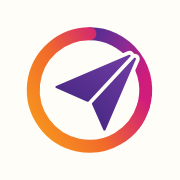
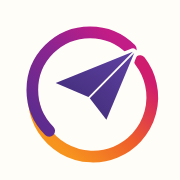
Fix heading legibility, and redraw the mark to match the artwork
Two things the owner caught on the deployed site.

**Headings.** A blanket `h1, h2, h3, h4` rule put Bangers on every heading.
Bangers is a condensed comic poster face — it earns its place at 2rem+ and its
letterforms run together below that, so the 16px homepage card titles rendered
as an unreadable clump. The rule now splits by size rather than by level: h1/h2
keep Bangers for hero and section headlines, h3/h4 get Baloo 2, which stays
rounded and cartoon-adjacent while being legible at 16px. Picked by rendering
the actual cards against Bangers-with-tracking, Nunito, Fredoka, Baloo 2 and
Chewy rather than by guessing. The handful of small headings that asked for
`.font-display` explicitly moved across too.

**The mark.** The plane was wrong: two disconnected triangles rather than one
dart. It is now a single dart whose wing and body share the tip and the notch,
with the body nudged just off that shared edge so the fold reads as a hairline,
as the artwork does. The ring was a plain circle; it is now the spiral it should
be — two arcs overlapping about 35° at the lower left, inner drawn over outer,
which is what gives the wrapped-ribbon tail — and the plane flies out through
the gap the arcs leave at 1–2 o'clock. Colours moved to the artwork's, and the
wordmark takes its slate navy rather than the page's near-black.

The favicon's backing disc is sized so it tucks under the ring without poking
past it — checked at 16/24/32/64px against both light and dark browser chrome,
[…]

Changed region(s): [[0.1389, 0.1389, 0.8889, 0.9167]]

diff --git a/src/components/brand/logo.tsx b/src/components/brand/logo.tsx
@@ -15,14 +15,25 @@ import { cn } from "@/lib/utils";
  */
 
 const BRAND = {
-  violet: "#4C2A86",
-  violetLight: "#6B3AA0",
-  purple: "#5B2D91",
-  magenta: "#8E2A93",
-  pink: "#D01C7B",
-  orange: "#F26B2A",
+  violet: "#46307F",
+  violetLight: "#5C3F9E",
+  purple: "#5E2C8F",
+  magenta: "#8D2490",
+  pink: "#C21C86",
+  crimson: "#D01C6E",
+  orange: "#EE5C2B",
   amber: "#F7941E",
 } as const;
+
+/**
+ * The plane, as one dart rather than two loose triangles.
+ *
+ * `WING` and `BODY` share the tip and the notch; BODY is nudged ~2.4 units
+ * perpendicular to that shared edge so the fold reads as a hairline of the page
+ * showing through, which is what the original artwork does.
+ */
+const PLANE_WING = "M155 51 L56 91 L98 109 Z";
+const PLANE_BODY = "M156.7 52.7 L99.7 110.7 L121 138 Z";
 
 /**
  * The circular mark on its own — favicon, avatar, tight spaces.
@@ -44,17 +55,17 @@ export function LogoMark({
       {...(title ? { role: "img" as const, "aria-label": title } : { "aria-hidden": true })}
     >
       <defs>
-        {/* Top of the ring: violet → magenta → pink, sweeping clockwise. */}
-        <linearGradient id="idmRingTop" x1="10%" y1="6%" x2="94%" y2="66%">
-          <stop offset="0%" stopColor={BRAND.purple} />
-          <stop offset="48%" stopColor={BRAND.magenta} />
-          <stop offset="100%" stopColor={BRAND.pink} />
-        </linearGradient>
-        {/* Bottom of the ring: pink → orange → amber, continuing the sweep. */}
-        <linearGradient id="idmRingBottom" x1="94%" y1="44%" x2="10%" y2="96%">
-          <stop offset="0%" stopColor={BRAND.pink} />
-          <stop offset="55%" stopColor={BRAND.orange} />
+        {/* Under-layer: crimson at 2 o'clock, sweeping clockwise to orange at 8. */}
+        <linearGradient id="idmRingOuter" x1="92%" y1="14%" x2="14%" y2="82%">
+          <stop offset="0%" stopColor={BRAND.crimson} />
+          <stop offset="50%" stopColor={BRAND.orange} />
           <stop offset="100%" stopColor={BRAND.amber} />
+        </linearGradient>
+        {/* Over-layer: purple at 7:30, up the left and over the top to magenta. */}
+        <linearGradient id="idmRingInner" x1="8%" y1="90%" x2="86%" y2="10%">
+          <stop offset="0%" stopColor={BRAND.purple} />
+          <stop offset="55%" stopColor={BRAND.magenta} />
+          <stop offset="100%" stopColor={BRAND.pink} />
         </linearGradient>
         {/* Themed — see `--brand-plane-*` in globals.css. */}
         <linearGradient id="idmPlane" x1="16%" y1="92%" x2="88%" y2="12%">
@@ -62,30 +73,35 @@ export function LogoMark({
           <stop offset="100%" stopColor={`var(--brand-plane-to, ${BRAND.violetLight})`} />
         </linearGradient>
         {/*
-          The original artwork separates the plane from the ring with a sliver of
-          the page behind it. Punching that sliver out with a mask — rather than
-          painting it in a background colour — means the mark is correct on every
-          surface it lands on: nav, cream footer, dark theme, a user's own
+          The artwork separates the plane from the ring with a sliver of the page
+          behind it. Punching that sliver out with a mask — rather than painting
+          it in a background colour — means the mark is correct on every surface
+          it lands on: nav, cream footer, dark theme, a customer's own
           link-in-bio colour.
         */}
         <mask id="idmPlaneCut">
           <rect x="0" y="0" width="200" height="200" fill="#fff" />
-          <g fill="#000" stroke="#000" strokeWidth="14" strokeLinejoin="round">
-            <path d="M152 55 L56 96 L97 114 Z" />
-            <path d="M159 59 L104 118 L119 152 Z" />
+          <g fill="#000" stroke="#000" strokeWidth="9" strokeLinejoin="round">
+            <path d={PLANE_WING} />
+            <path d={PLANE_BODY} />
           </g>
         </mask>
       </defs>
 
-      {/* Ring, drawn as two arcs so the gradient can travel around it. */}
-      <g fill="none" strokeWidth="17" strokeLinecap="round" mask="url(#idmPlaneCut)">
-        <path d="M100 26 A74 74 0 0 1 170 122" stroke="url(#idmRingTop)" />
-        <path d="M170 122 A74 74 0 1 1 100 26" stroke="url(#idmRingBottom)" />
+      {/*
+        The ring is a spiral, not a circle: two arcs that overlap by about 35°
+        at the lower left, the inner one drawn over the outer, which is what
+        gives the mark its wrapped-ribbon tail. They stop short of each other at
+        1–2 o'clock, and the plane flies out through that gap.
+      */}
+      <g fill="none" strokeWidth="15" strokeLinecap="round" mask="url(#idmPlaneCut)">
+        <path d="M164.1 63 A76 76 0 1 1 28.5 119.2" stroke="url(#idmRingOuter)" />
+        <path d="M47.7 152.3 A71 71 0 0 1 152.3 47.7" stroke="url(#idmRingInner)" />
       </g>
 
-      <g fill="url(#idmPlane)" stroke="url(#idmPlane)" strokeWidth="3" strokeLinejoin="round">
-        <path d="M152 55 L56 96 L97 114 Z" />
-        <path d="M159 59 L104 118 L119 152 Z" />
+      <g fill="url(#idmPlane)">
+        <path d={PLANE_WING} />
+        <path d={PLANE_BODY} />
       </g>
     </svg>
   );
@@ -99,15 +115,15 @@ export function LogoWordmark({ className }: { className?: string }) {
   return (
     <span
       className={cn(
-        "font-sans text-[19px] font-extrabold lowercase leading-none tracking-[-0.02em]",
+        "font-sans text-[19px] font-extrabold lowercase leading-none tracking-[-0.015em]",
         className,
       )}
     >
-      <span className="text-[var(--text)]">insta</span>
+      <span className="text-[var(--brand-word,var(--text))]">insta</span>
       <span className="bg-[linear-gradient(95deg,#B8228C_0%,#D91E6E_45%,#F7941E_100%)] bg-clip-text text-transparent">
         dm2
       </span>
-      <span className="text-[var(--text)]">47</span>
+      <span className="text-[var(--brand-word,var(--text))]">47</span>
     </span>
   );
 }

diff --git a/src/app/globals.css b/src/app/globals.css
@@ -21,6 +21,9 @@
     "Segoe UI Rounded", system-ui, -apple-system, sans-serif;
   --font-display: var(--font-display-loaded), "Impact", "Haettenschweiler",
     ui-rounded, system-ui, sans-serif;
+  /* Headings inside content. See the h1..h4 rule below for where each is used. */
+  --font-heading: var(--font-heading-loaded), ui-rounded,
+    "Hiragino Maru Gothic ProN", "Segoe UI Rounded", system-ui, sans-serif;
   --font-mono: ui-monospace, "SF Mono", "JetBrains Mono", Menlo, monospace;
 
   /* Ink — the outline colour everything is drawn with */
@@ -114,8 +117,10 @@
 
   /* Logo plane. The ring is fixed brand gradient; only the plane is themed,
      because dark violet on a near-black header is unreadable. */
-  --brand-plane-from: #4c2a86;
-  --brand-plane-to: #6b3aa0;
+  --brand-plane-from: #46307f;
+  --brand-plane-to: #5c3f9e;
+  /* Wordmark ink. The artwork uses a slate navy, not the page's near-black. */
+  --brand-word: #2e3648;
 
   --ink: #12110e;
   --border: #12110e;          /* ink outlines are the border */
@@ -144,6 +149,7 @@
 
     --brand-plane-from: #7b4fd1;
     --brand-plane-to: #a274f5;
+    --brand-word: #f7f6f2;
 
     --ink: #f7f6f2;
     --border: #000000;
@@ -172,6 +178,7 @@
 
   --brand-plane-from: #7b4fd1;
   --brand-plane-to: #a274f5;
+  --brand-word: #f7f6f2;
 
   --ink: #f7f6f2;
   --border: #000000;
@@ -210,7 +217,19 @@
     color: #12110e;
   }
 
-  h1, h2, h3, h4 {
+  /*
+    Two heading faces, split by size rather than by level.
+
+    Bangers is a condensed comic poster face. It carries the hero and section
+    headlines, which are all 2rem+. Below that its letterforms run together and
+    it stops being readable — which is exactly what happened when this rule
+    covered h3/h4 too and every 16px card title on the homepage rendered in it.
+
+    h3/h4 are content headings and are almost always small, so they get Baloo 2:
+    still rounded and cartoon-adjacent, but legible at 16px. Reach for
+    `.font-display` explicitly on the rare large h3.
+  */
+  h1, h2 {
     font-family: var(--font-display);
     font-weight: 400;
     letter-spacing: 0.012em;
@@ -218,8 +237,17 @@
     text-wrap: balance;
   }
 
+  h3, h4 {
+    font-family: var(--font-heading);
+    font-weight: 700;
+    letter-spacing: 0.004em;
+    line-height: 1.18;
+    text-wrap: balance;
+  }
+
   /* Bangers is all-caps by design; keep casing honest where it's used. */
   .font-display { font-family: var(--font-display); font-weight: 400; }
+  .font-heading { font-family: var(--font-heading); font-weight: 700; }
 
   p { text-wrap: pretty; }
 

diff --git a/src/app/layout.tsx b/src/app/layout.tsx
@@ -1,5 +1,5 @@
 import type { Metadata, Viewport } from "next";
-import { Bangers, Nunito } from "next/font/google";
+import { Baloo_2, Bangers, Nunito } from "next/font/google";
 import { Toaster } from "sonner";
 import { env } from "@/lib/env";
 import "./globals.css";
@@ -9,6 +9,20 @@ const display = Bangers({
   weight: "400",
   subsets: ["latin"],
   variable: "--font-display-loaded",
+  display: "swap",
+});
+
+/**
+ * Baloo 2 for headings that sit inside content rather than above it.
+ *
+ * Bangers is a condensed poster face — it is excellent at hero sizes and
+ * genuinely hard to read below ~2rem, where the letterforms run together. Baloo
+ * keeps the rounded, friendly character at card and section-heading sizes.
+ */
+const heading = Baloo_2({
+  weight: ["600", "700", "800"],
+  subsets: ["latin"],
+  variable: "--font-heading-loaded",
   display: "swap",
 });
 
@@ -61,7 +75,11 @@ export const viewport: Viewport = {
 
 export default function RootLayout({ children }: { children: React.ReactNode }) {
   return (
-    <html lang="en" className={`${display.variable} ${body.variable}`} suppressHydrationWarning>
+    <html
+      lang="en"
+      className={`${display.variable} ${heading.variable} ${body.variable}`}
+      suppressHydrationWarning
+    >
       <head>
         {/* Apply the stored theme before paint so there's no flash. */}
         <script

diff --git a/src/components/marketing/showcase.tsx b/src/components/marketing/showcase.tsx
@@ -149,7 +149,7 @@ export function TriggerShowcase() {
             className="relative space-y-5"
           >
             <div className="flex flex-wrap items-center gap-3">
-              <h3 className="font-display text-[26px] tracking-wide">{trigger.name}</h3>
+              <h3 className="text-[21px] font-extrabold">{trigger.name}</h3>
               <span className="rounded-full border-2 border-[var(--border)] bg-[var(--color-bam-400)] px-2.5 py-0.5 text-[11px] font-extrabold uppercase text-[#12110e]">
                 {trigger.stat}
               </span>

diff --git a/src/app/(marketing)/page.tsx b/src/app/(marketing)/page.tsx
@@ -330,7 +330,7 @@ function Features() {
                 >
                   <Icon className="h-[19px] w-[19px]" />
                 </span>
-                <h3 className="text-[16px] font-extrabold">{feature.title}</h3>
+                <h3 className="text-[17.5px] font-extrabold">{feature.title}</h3>
                 <p className="mt-2 text-[14px] font-medium leading-relaxed text-[var(--text-muted)]">
                   {feature.body}
                 </p>

diff --git a/src/components/ui/index.tsx b/src/components/ui/index.tsx
@@ -319,7 +319,7 @@ export function EmptyState({
         </div>
       )}
       <div className="relative space-y-1">
-        <p className="font-display text-[20px] tracking-wide">{title}</p>
+        <p className="font-heading text-[18px]">{title}</p>
         {description && (
           <p className="mx-auto max-w-sm text-[13.5px] font-medium text-[var(--text-muted)]">
             {description}

diff --git a/src/components/bio/page-view.tsx b/src/components/bio/page-view.tsx
@@ -173,7 +173,7 @@ function BlockRow({
 }) {
   if (block.kind === "HEADING") {
     return (
-      <h2 className="font-display pt-4 text-center text-[22px] tracking-wide opacity-90">
+      <h2 className="font-heading pt-4 text-center text-[20px] opacity-90">
         {block.label}
       </h2>
     );

diff --git a/docs/DEPLOY.md b/docs/DEPLOY.md
@@ -355,3 +355,23 @@ unacceptable, build into a fresh directory and flip a symlink before restarting.
 - Accounts connected before `instagram_business_content_publish` was added must
   reconnect before the scheduler works. The Scheduler page detects this and says
   so.
+
+## Replacing the logo with the original files
+
+The mark in `src/components/brand/logo.tsx` and `src/app/icon.svg` is an SVG
+reconstruction of the owner's artwork, drawn to match. To swap in the original
+files instead:
+
+1. Commit them, e.g. `public/brand/logo-lockup.svg` and `public/brand/mark.svg`
+   (SVG keeps it sharp at every size; a PNG works but needs a 2x/3x set).
+2. In `logo.tsx`, replace the body of `LogoMark` / `LogoWordmark` with an
+   `<img>` or an inlined `<svg>`. Keep the component names and props — the nav,
+   footer, auth pages, dashboard rail and bio badge all import from here, so
+   nothing else has to change.
+3. For the favicon, replace `src/app/icon.svg` outright and re-export
+   `apple-icon.png` (180×180) and `opengraph-image.png` (1200×630).
+
+One thing the redraw does that a dropped-in file will not: it punches the plane
+out of the ring with a mask and themes the plane colour, so the mark stays
+correct on the cream footer and in dark mode. A flat file with a baked-in
+background will need a background-appropriate variant per surface.

diff --git a/docs/ROADMAP.md b/docs/ROADMAP.md
@@ -170,3 +170,10 @@ Do not build these without the owner asking. See `docs/FEATURES.md` §D.
   before the scheduler works. The Scheduler page detects this and says so.
 - **Kit / Flodesk target pickers** take an ID by hand rather than listing forms
   and segments from the provider.
+
+### Brand assets are a redraw, not the owner's files
+
+`src/components/brand/logo.tsx` and `src/app/icon.svg` are an SVG reconstruction
+of the owner's supplied artwork, matched by eye. If the original vector files
+ever land in the repo, prefer them — see the "Replacing the logo" note in
+`docs/DEPLOY.md`.
